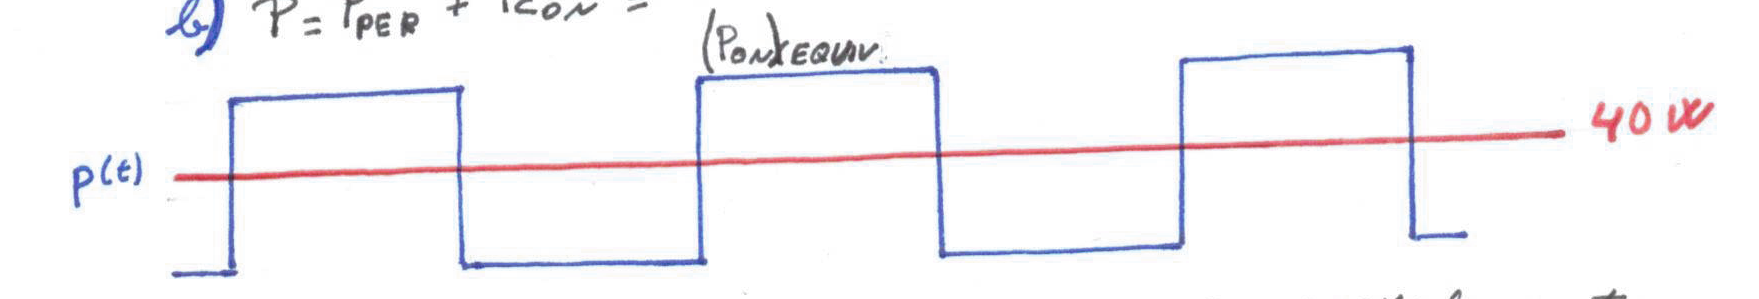
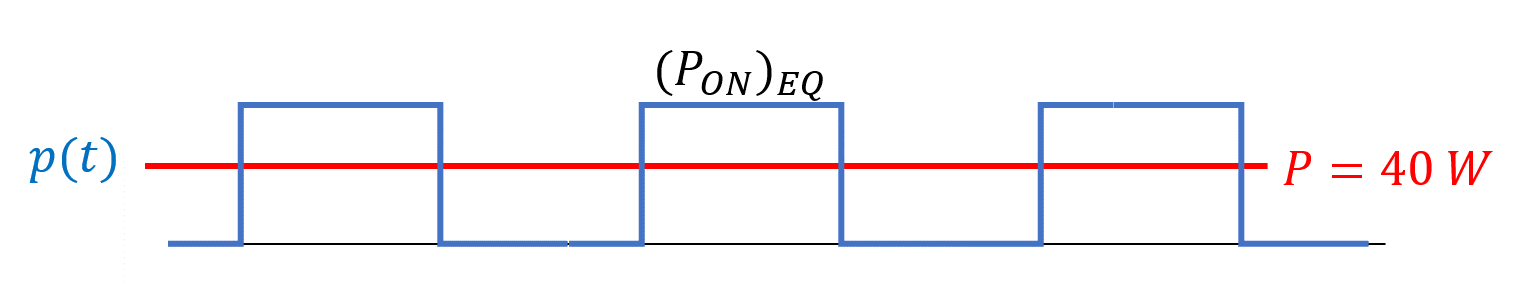
Figuras problema reg permanente

diff --git a/docs/EjerciciosResueltos/regimenPermanente.md b/docs/EjerciciosResueltos/regimenPermanente.md
@@ -4,7 +4,7 @@
 
 # **Ejercicio ejemplo para el cálculo de disipadores para un dispositivo trabajando en régimen permanente.**
 
-**Suponiendo la conmutación del interruptor indicado en la Figura 2, calcular:**
+**Suponiendo la conmutación del interruptor indicado en la Figura 1, calcular:**
 
 **1. Potencia media disipada en el interruptor.**
 
@@ -20,7 +20,7 @@ La Figura 1 muestra el esquema conceptual del circuito con los valores de funcio
 
 
 <p align="center">
-  <img src="../../assets/img/regPer/Ej Fig2.png">
+  <img src="../../assets/img/ejercicios/regimenPermanente/Ej Fig2.png">
 </p>
 <p align = "center">Figura 2. – Formas de onda de la conmutación.</p>
 
@@ -35,7 +35,7 @@ Los parámetros de funcionamiento del circuito y de los componentes son los sigu
 
 El objetivo final del problema es calcular el disipador necesario para el interruptor que opera en las condiciones citadas y que este pueda trabajar sin romperse por sobrepasar la temperatura máxima de la unión. Para ello es necesario seguir y calcular la información indicada en los puntos en los que se ha dividido el problema.
 
-La teoría asociada a la solución de este problema está relacionada con la teoría mostradad en el documento que trata sobre la situación del pulso [Régimen Permanente](docs/teoriaRegimenPermanente.md).
+La teoría asociada a la solución de este problema está relacionada con la teoría mostradad en el documento que trata sobre la situación del pulso [Régimen Permanente](docs/teoria/teoriaRegimenPermanente.md).
 
 **1. Potencia media disipada en el interruptor.**
 El primer paso es obtener la potencia media disipada por el componente.
@@ -48,7 +48,8 @@ Se procede a obtener el valor de ambas. Las perdidas en conducción vienen defin
 $$P_{CONDUCCIÓN}= \frac 1T \cdot \int_{0}^{t_{ON}} p(t) \cdot dt=\frac 1T \cdot \int_{0}^{t_{ON}} I_{ON} \cdot V_{ON} \cdot dt=I_{ON} \cdot V_{ON} \cdot \dfrac {t_{ON}} T=D \cdot I_{ON} \cdot V_{ON}\;\;\;(1) $$
 
 De forma similar las perdidas en comuntación vienen definidas por:
-$$P_{CONDUCCIÓN}= \frac 16 \cdot V_{OFF} \cdot f \cdot(t_1+t_2)\;\;\;(2)$$
+
+$$P_{CONMUTACIÓN}= \frac 16 \cdot V_{OFF} \cdot f \cdot(t_1+t_2)\;\;\;(2)$$
 
 Siendo $$t_1$$ el paso de conmutación de OFF a ON y $$t_2$$ el paso de ON a OFF.
 
@@ -64,7 +65,7 @@ $$P=0,5 \cdot 20\;A \cdot 2\;V+\frac 16 \cdot 60\;V \cdot 50\;kHz \cdot(1\;\mu s
 La potencia instantanea equivalente en conducción $$((P_{ON})_{EQUIV})$$ se muestra definida en la Figura 3.
 
 <p align="center">
-  <img src="../../assets/img/regPer/Ej Fig3.png">
+  <img src="../../assets/img/ejercicios/regimenPermanente/Ej Fig3.png">
 </p>
 <p align = "center">Figura 3. – Formas de onda para el calculo de la potencia instantanea equivalente en conducción.</p> 
 
